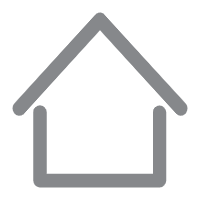
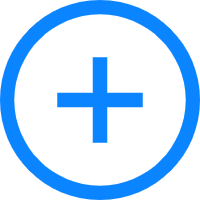
1

diff --git a/src/script.js b/src/script.js
@@ -18,7 +18,7 @@ function Configurazione() {
     document.addEventListener('dblclick', (event) => event.preventDefault(), { passive: false });
     // 设置默认按钮界面
     document.getElementById('but-tianjia').addEventListener('click', key_tianjia);
-    click_footbut(document.getElementById('but-tianjia'));
+    click_footbut(document.getElementById('but-home'));
     document.querySelectorAll('.foot-item').forEach(x => x.addEventListener('click', () => click_footbut(x))); 
     window.addEventListener('scroll', scrolling);
     window.addEventListener('scroll', refresh)
@@ -27,6 +27,7 @@ function Configurazione() {
     document.getElementById('login-form').addEventListener('submit', login);
     document.getElementById('but-renwu').addEventListener('click', showunload);
     document.getElementById('but-baobiao').addEventListener('click', key_biao);
+    document.getElementById('but-home').addEventListener('click', key_home);
     document.getElementById('but-carta').addEventListener('click', key_carta);
     document.querySelector('.addhead-out').addEventListener('click', (e) => click_inout(e));
     document.querySelector('.addhead-in').addEventListener('click', (e) => click_inout(e));
@@ -268,11 +269,6 @@ function click_footbut(element) {
         if (item === element) {
             firstchild.src = firstchild.src.replace('.png', '-active.png');
             secondchild.style.color = '#0A84FF'
-        }
-        if (firstchild.src.includes('tianjia-active')) {
-            secondchild.textContent = '添加'
-        } else if (firstchild.src.includes('tianjia')) {
-            secondchild.textContent = '主页'
         }
     })
 }
@@ -563,19 +559,15 @@ function tastiera_key(event) {
 }
 // 添加按钮
 function key_tianjia() {
-    const tianjia = document.getElementById('but-tianjia')
-    const img = tianjia.children[0].src;
-    if (img.includes('active')) {
-        document.getElementById('calendar').style.display = 'none';
-        currentDate = new Date();
-        updateCalendar();
-        changepage('addpage');
-        caricamotivilist();
-        setdatacalendar();
-    } else {
-        notifica_memori();
-        changepage('mainpage');
-    };
+    currentDate = new Date();
+    updateCalendar();
+    changepage('addpage');
+    caricamotivilist();
+    setdatacalendar();
+}
+function key_home() {
+    notifica_memori();
+    changepage('mainpage');
 }
 // 切换报表页面
 function key_biao() {

diff --git a/index.html b/index.html
@@ -9,7 +9,7 @@
     <link rel="icon" href="/icons/app.png">
     <meta name="theme-color" content="#f7f7f7"/>
     <!-- <meta name="theme-color" content="#49c2ef"> -->
-    <link rel="stylesheet" href="src/styles.css?v=1.3">
+    <link rel="stylesheet" href="src/styles.css?v=1.5">
 </head>
 <body>
     <div class="page" id="mainpage">
@@ -30,6 +30,9 @@
                     <div id="head-tot"></div>
                 </div>
             </div>
+        </div>
+        <div id="but-tianjia">
+            <img src="icons/tianjia.png">
         </div>
         <div id="maincontainer">
             <div id="refresh-container">
@@ -253,8 +256,8 @@
             <img src="icons/baobiao.png" alt="报表">
             <div>报表</div>
         </div>
-        <div class="foot-item" id="but-tianjia">
-            <img src="icons/tianjia.png" alt="添加">
+        <div class="foot-item" id="but-home">
+            <img src="icons/home-active.png" alt="主页">
             <div>主页</div>
         </div>
         <div class="foot-item" id="but-carta">
@@ -267,7 +270,7 @@
         </div>
     </div>
     <script src="src/bwip-js-min.js"></script>
-    <script src="src/fun.js?v=1.2"></script>
+    <script src="src/fun.js?v=1.5"></script>
     <script src="src/script.js?v=1.5"></script>
 </body>
 </html>

diff --git a/src/styles.css b/src/styles.css
@@ -94,6 +94,21 @@ body, html {
     /* color: #3f3f3f; */
     /* color: var(--lan); */
 }
+#but-tianjia{
+    position: fixed;
+    width: 40px;
+    height: 40px;
+    bottom: 100px;
+    left: 50%;
+    transform: translateX(-50%);
+    z-index: 100;
+    background-color: #fff;
+    border-radius: 50%;
+}
+#but-tianjia img{
+    width: 40px;
+    height: 40px;
+}
 .foot {
     background-color: #fff;
     display: flex;
@@ -120,7 +135,7 @@ body, html {
     width: 25px;
     height: 25px;
 }
-#but-tianjia img{
+#but-home img{
     width: 30px;
     height: 30px;
 }
